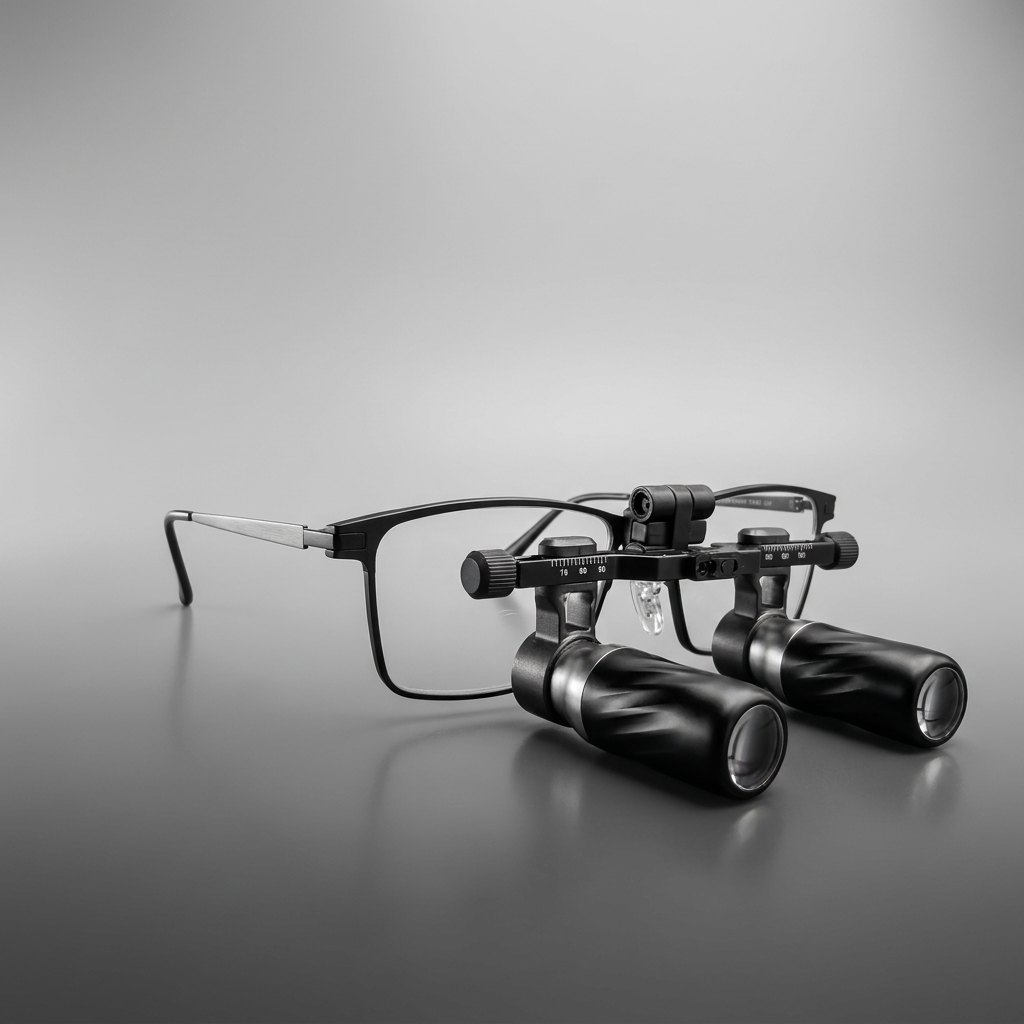
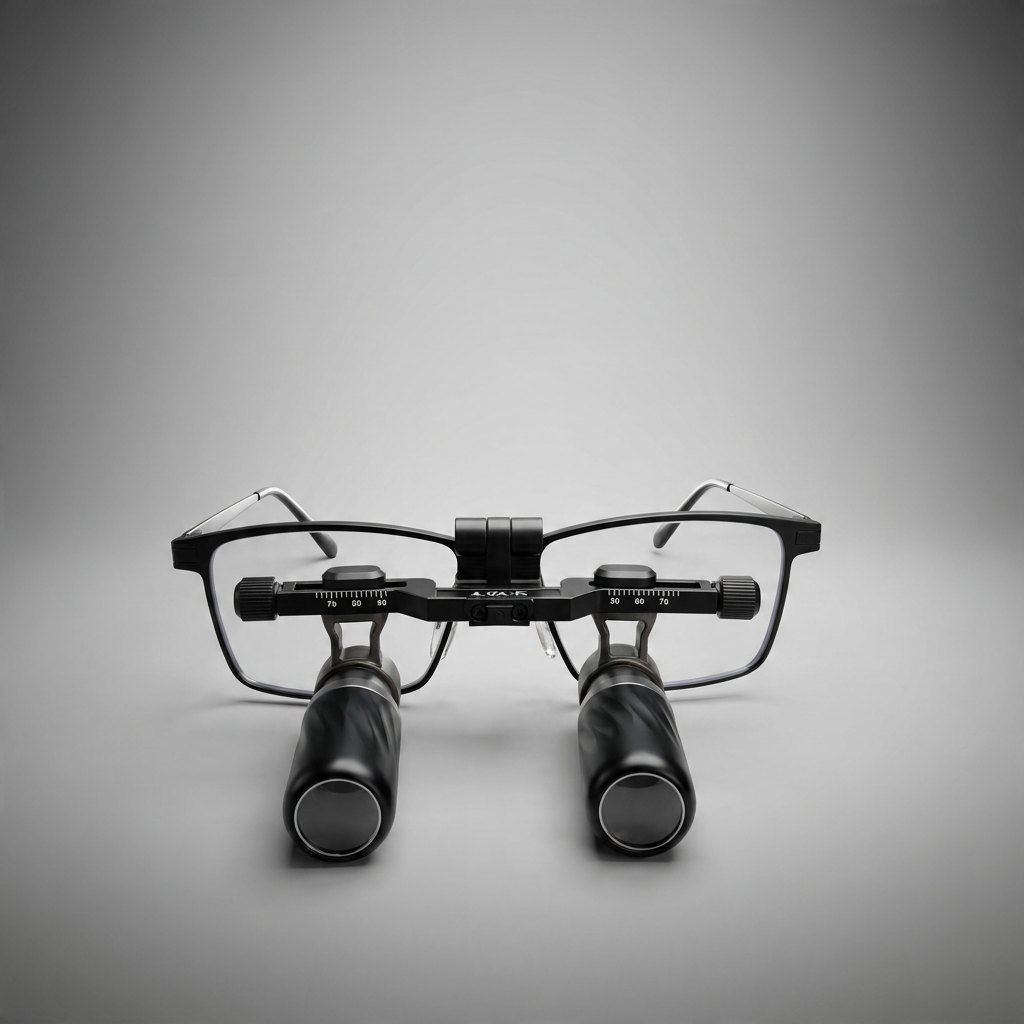
Lupas: Kepler Flip com 2 fotos novas na frente (mantem as antigas)

diff --git a/sw.js b/sw.js
@@ -1,5 +1,5 @@
 // Cache só da "casca" do app (alguns KB). Os materiais em si são sempre links externos.
-const VERSAO = 'cvd-materiais-v104';
+const VERSAO = 'cvd-materiais-v105';
 const CASCA = ['./', 'index.html', 'firebase-config.js', 'conta.js', 'manifest.webmanifest', 'img/logo-branco.svg', 'cloud.css', 'admin-analise.js', 'img/icone.svg',
   'img/optymus.webp', 'img/clinical-plus.webp', 'img/dentsurg-pro.webp'];
 

diff --git a/lupas.js b/lupas.js
@@ -32,8 +32,8 @@ window.CVD_LUPAS = {
      "img": "flip-kepler",
      "fotos": {
       "url": "https://github.com/kahuesouza/cvdentus-arquivos/releases/download/lupas/lupa-flip-kepler-fotos.zip",
-      "mb": 0.2,
-      "n": 3,
+      "mb": 0.9,
+      "n": 5,
       "dir": "arquivos/lupas/flip-kepler/"
      },
      "video": {
